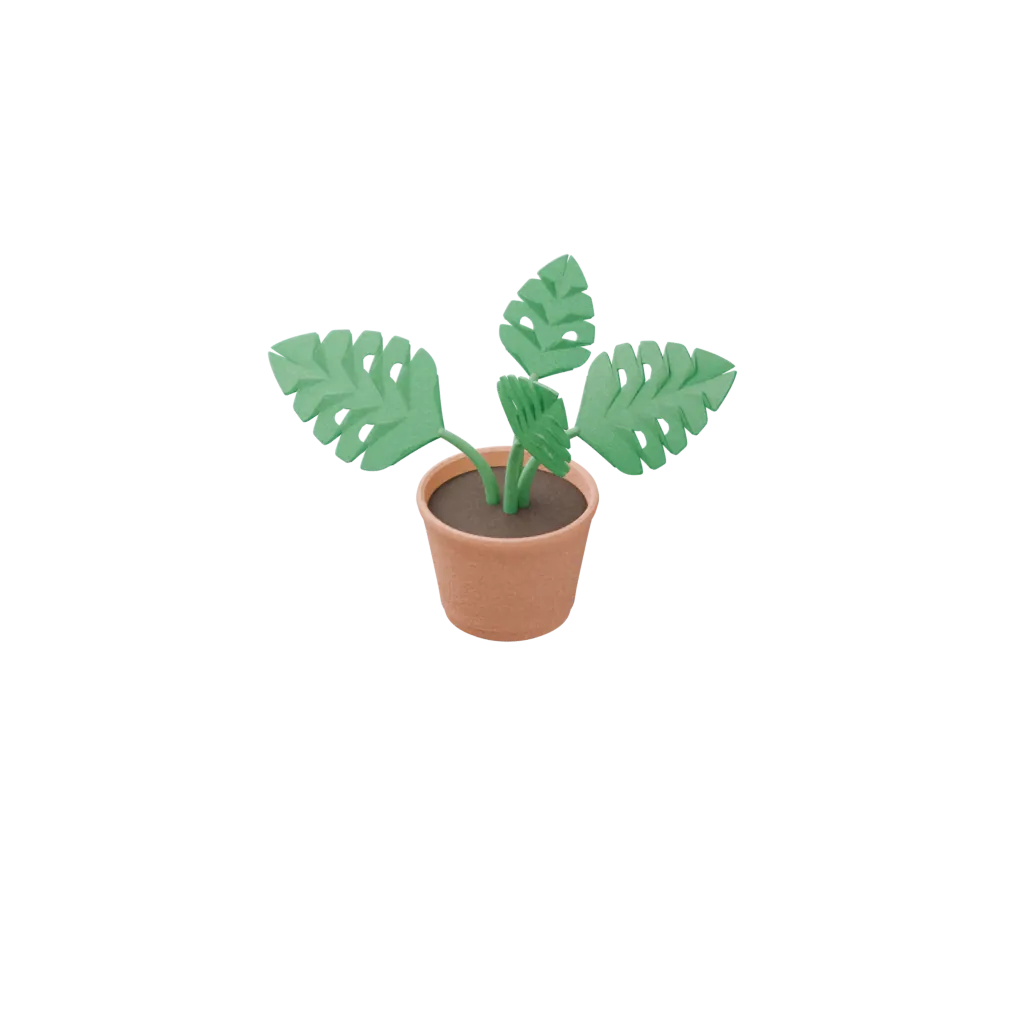
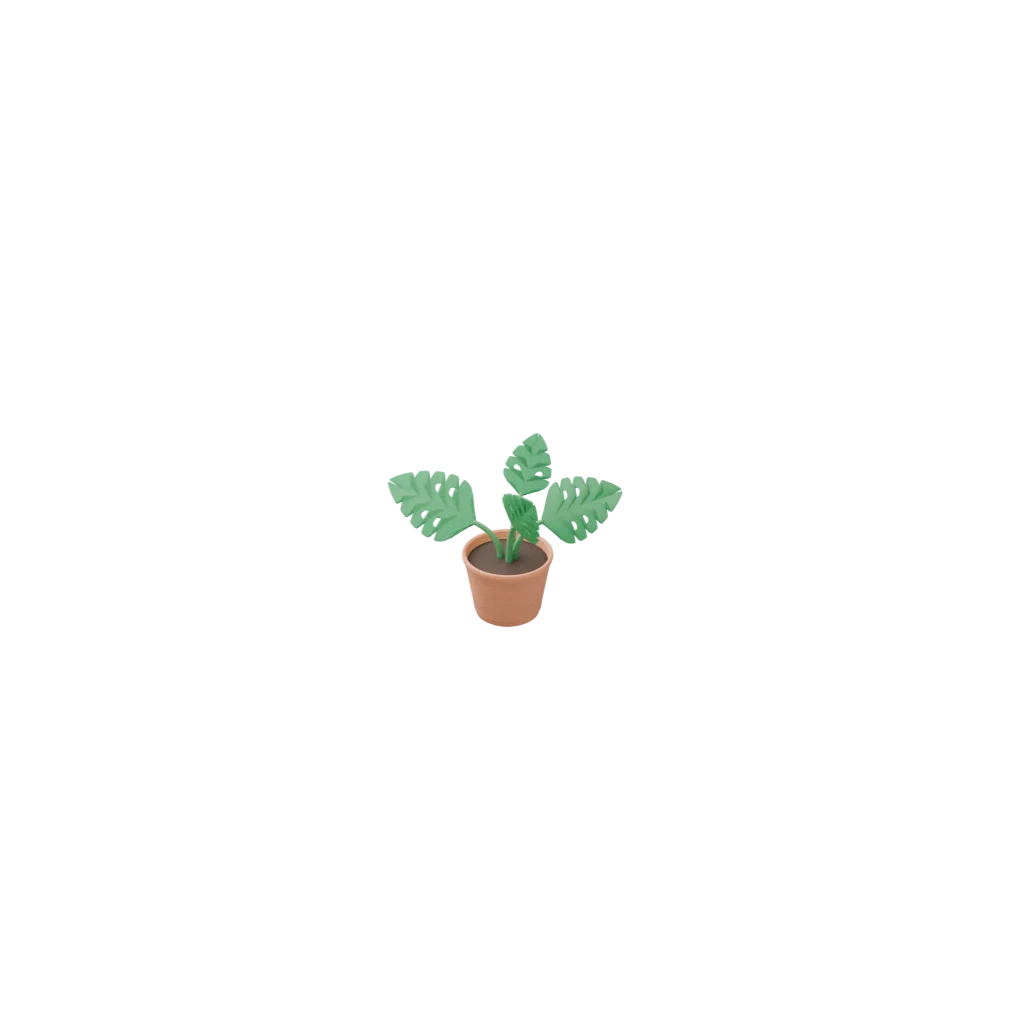
Scale the care scene plants to the room they stand in
The silhouettes come from the onboarding collection recipes, where a plant
is rendered alone and its absolute size means nothing. In the diorama they
share the frame with a 4.2 m by 3.6 m room, a side table and a humidifier
modelled at real scale: the monstera was 3.3 m wide in a 1.3 m pot, its
leaves went through the wall and hung outside the diorama, and the
humidifier beside it read as a toy.

- plants.ECHELLE_PIECE (0.50) shrinks the whole assembly around the anchor
  before the render: the monstera is 1.5 m tall, pot included, and fits the
  room on all six slots.
- The plant shadow is cut to the pot it now sits under, and its blur
  follows the frame instead of a fixed 10 px.
- New test: every silhouette, on every slot, lands on the diorama — not one
  pixel on the transparent background. It fails on the previous assets
  (monstera near the window: 870 pixels outside).

The delivered WebP files are the same renders, resampled around the anchor
by the same factor — for an orthographic camera that is exactly what the
smaller model projects to. Blender is not available in this environment;
`python3 tool/build_care_scene_assets.py plants` renders them natively from
the same geometry.

Claude-Session: https://claude.ai/code/session_016ReDMjugRveh9MtWcQ9Kmj

Changed region(s): [[0.25, 0.25, 0.7188, 0.625]]

diff --git a/test/assets/care_scene_assets_test.dart b/test/assets/care_scene_assets_test.dart
@@ -1,4 +1,6 @@
 import 'dart:io';
+import 'dart:typed_data';
+import 'dart:ui' as ui;
 
 import 'package:flora/domain/care/care_profile.dart';
 import 'package:flora/domain/species/species_info.dart';
@@ -11,6 +13,8 @@ import 'package:flutter_test/flutter_test.dart';
 /// jamais rendue ne se verrait qu'à l'exécution, sur l'appareil — et une
 /// valeur d'enum ajoutée sans son image casserait ici.
 void main() {
+  TestWidgetsFlutterBinding.ensureInitialized();
+
   void expectWebp(File file, {int plancher = 2048}) {
     expect(file.existsSync(), isTrue, reason: file.path);
     expect(
@@ -55,15 +59,58 @@ void main() {
 
   test('chaque silhouette a son image', () {
     for (final v in PlantVisualKind.values) {
-      final spec = CareEnvironmentVisualSpec(
-        environment: CareEnvironmentKind.indoorRoom,
-        light: LightNeed.indirect,
-        slot: CarePlantSlot.middle,
-        plant: v,
-        humidity: HumidityNeed.average,
-        humidityRange: (40, 60),
-      );
-      expectWebp(File(spec.plantAsset));
+      expectWebp(File(_spec(v).plantAsset));
+    }
+  });
+
+  test('aucune silhouette ne sort du diorama, où qu\'elle se pose', () async {
+    // Le décor et les plantes sortent de la même caméra à cadre fixe : à
+    // taille d'image égale, un pixel de plante tombe sur le pixel de décor
+    // qu'il couvrira dans l'application. Une plante trop grande pour la
+    // pièce traverse donc le mur et flotte sur le fond — c'est ce qui se
+    // voyait avant `plants.ECHELLE_PIECE`. La pièce est le cas serré : le
+    // jardin couvre tout le cadre.
+    final decor = await _pixels(
+      File('assets/care_scene/indoor/light/indirect.webp'),
+    );
+    const ancre = CareEnvironmentSlots.anchor;
+    for (final v in PlantVisualKind.values) {
+      final plante = await _pixels(File(_spec(v).plantAsset));
+      // Les pixels franchement opaques de la silhouette, relevés une fois.
+      final points = <int>[];
+      for (var y = 0; y < plante.hauteur; y++) {
+        for (var x = 0; x < plante.largeur; x++) {
+          if (plante.octets.getUint8((y * plante.largeur + x) * 4 + 3) > 64) {
+            points.add(x);
+            points.add(y);
+          }
+        }
+      }
+      expect(points, isNotEmpty, reason: '${v.name} : silhouette vide');
+      for (final emplacement in CarePlantSlot.values) {
+        final f = CareEnvironmentSlots.slots[emplacement.name]!;
+        final dx = ((f.$1 - ancre.$1) * plante.largeur).round();
+        final dy = ((f.$2 - ancre.$2) * plante.hauteur).round();
+        var dehors = 0;
+        for (var i = 0; i < points.length; i += 2) {
+          final x = points[i] + dx;
+          final y = points[i + 1] + dy;
+          final dedans =
+              x >= 0 &&
+              y >= 0 &&
+              x < decor.largeur &&
+              y < decor.hauteur &&
+              decor.octets.getUint8((y * decor.largeur + x) * 4 + 3) > 8;
+          if (!dedans) dehors += 1;
+        }
+        expect(
+          dehors,
+          0,
+          reason:
+              '${v.name} sur ${emplacement.name} : $dehors pixels hors du '
+              'diorama — la silhouette est trop grande pour la pièce',
+        );
+      }
     }
   });
 
@@ -135,4 +182,32 @@ void main() {
     expect(pubspec, contains('- assets/care_scene/plants/'));
     expect(pubspec, contains('- assets/care_scene/props/'));
   });
+}
+
+/// Une silhouette dans son cadre, pour atteindre son chemin d'asset.
+CareEnvironmentVisualSpec _spec(PlantVisualKind plante) =>
+    CareEnvironmentVisualSpec(
+      environment: CareEnvironmentKind.indoorRoom,
+      light: LightNeed.indirect,
+      slot: CarePlantSlot.middle,
+      plant: plante,
+      humidity: HumidityNeed.average,
+      humidityRange: (40, 60),
+    );
+
+/// Les pixels bruts d'une image livrée, avec ses dimensions.
+Future<({int largeur, int hauteur, ByteData octets})> _pixels(File f) async {
+  final codec = await ui.instantiateImageCodec(await f.readAsBytes());
+  final frame = await codec.getNextFrame();
+  final octets = await frame.image.toByteData(
+    format: ui.ImageByteFormat.rawRgba,
+  );
+  final lu = (
+    largeur: frame.image.width,
+    hauteur: frame.image.height,
+    octets: octets!,
+  );
+  frame.image.dispose();
+  codec.dispose();
+  return lu;
 }

diff --git a/lib/features/species/presentation/care_environment_scene.dart b/lib/features/species/presentation/care_environment_scene.dart
@@ -179,16 +179,19 @@ class _PlantShadowPainter extends CustomPainter {
   @override
   void paint(Canvas canvas, Size size) {
     final c = Offset(center.dx * size.width, center.dy * size.height);
+    // Taillée sur le pot rendu par le pipeline (~0,64 m de large à
+    // l'échelle de la pièce), et non sur le cadre : une ombre plus large
+    // que la plante la ferait flotter au lieu de la poser.
     final rect = Rect.fromCenter(
       center: c,
-      width: size.width * 0.17,
-      height: size.width * 0.045,
+      width: size.width * 0.105,
+      height: size.width * 0.028,
     );
     canvas.drawOval(
       rect,
       Paint()
         ..color = color
-        ..maskFilter = const MaskFilter.blur(BlurStyle.normal, 10),
+        ..maskFilter = MaskFilter.blur(BlurStyle.normal, size.width * 0.014),
     );
   }
 

diff --git a/tool/care_scene/plants.py b/tool/care_scene/plants.py
@@ -23,6 +23,14 @@ from care_scene.common import VUE  # noqa: E402
 
 UP = Vector((0, 0, 1))
 
+# L'echelle de la piece. Les recettes viennent de la collection de
+# l'onboarding, ou la plante est rendue seule : sa taille absolue n'y veut
+# rien dire. Ici elle partage le cadre avec une piece de 4,2 m sur 3,6 m, un
+# gueridon et un humidificateur, tous a l'echelle reelle — telles quelles,
+# les recettes donnaient un monstera de 3,3 m de large, dans un pot de
+# 1,3 m, qui traversait les murs et sortait du diorama.
+ECHELLE_PIECE = 0.50
+
 # ------------------------------------------------------------
 # les parametres des deux recettes `make_leaf` (collection)
 # ------------------------------------------------------------
@@ -555,10 +563,16 @@ PLANTES = {
 
 
 def construire(nom, position=(0.0, 0.0, 0.0)):
-    """La plante [nom], en pot, les pieds a [position]."""
+    """La plante [nom], en pot, les pieds a [position], a l'echelle de la
+    piece : les recettes sont baties a leur taille d'icone, puis tout
+    l'assemblage est reduit autour de [position] — le point que
+    l'application pose sur l'emplacement."""
     batisseur, echelle = PLANTES[nom]
     D = Vector(position)
     mats = _materiaux(nom)
     objets = _pot_et_terre(mats, echelle, D)
     objets += batisseur(nom, mats, D, echelle)
+    for ob in objets:
+        ob.scale = ob.scale * ECHELLE_PIECE
+        ob.location = D + (ob.location - D) * ECHELLE_PIECE
     return objets

diff --git a/docs/13-care-environment-scenes.md b/docs/13-care-environment-scenes.md
@@ -143,11 +143,24 @@ comme un arbre), sa règle reste donc à l'espèce. Les orchidées terrestres du
 catalogue étendu (ophrys, céphalanthère) gardent elles aussi la feuille
 large : la silhouette en pot ne leur va pas.
 
+### L'échelle
+
+Les recettes de silhouette viennent de la collection de l'onboarding, où la
+plante est rendue seule : sa taille absolue n'y veut rien dire. Dans le
+diorama, elle partage le cadre avec une pièce de 4,2 m sur 3,6 m, un
+guéridon et un humidificateur modelés à l'échelle réelle.
+`plants.ECHELLE_PIECE` réduit donc tout l'assemblage autour de l'ancre
+avant le rendu : le monstera fait 1,5 m, pot compris, et tient dans la
+pièce aux six emplacements. À l'échelle des recettes, il faisait 3,3 m de
+large dans un pot de 1,3 m — ses feuilles traversaient les murs et
+sortaient du diorama, à côté d'un humidificateur haut de 47 cm.
+
 ### Ajouter une silhouette
 
 1. la construire dans `tool/care_scene/plants.py` (une entrée `PLANTES`,
    un constructeur) — les primitives sont dans `tool/clay_scene.py` et
-   `tool/cutting/common.py` ;
+   `tool/cutting/common.py` ; la bâtir à la taille des recettes,
+   `ECHELLE_PIECE` la met à l'échelle de la pièce au rendu ;
 2. la rendre : `python3 tool/build_care_scene_assets.py --only <nom>` ;
 3. une valeur dans `PlantVisualKind` et son chemin dans
    `CareEnvironmentVisualSpec.plantAsset` ;
